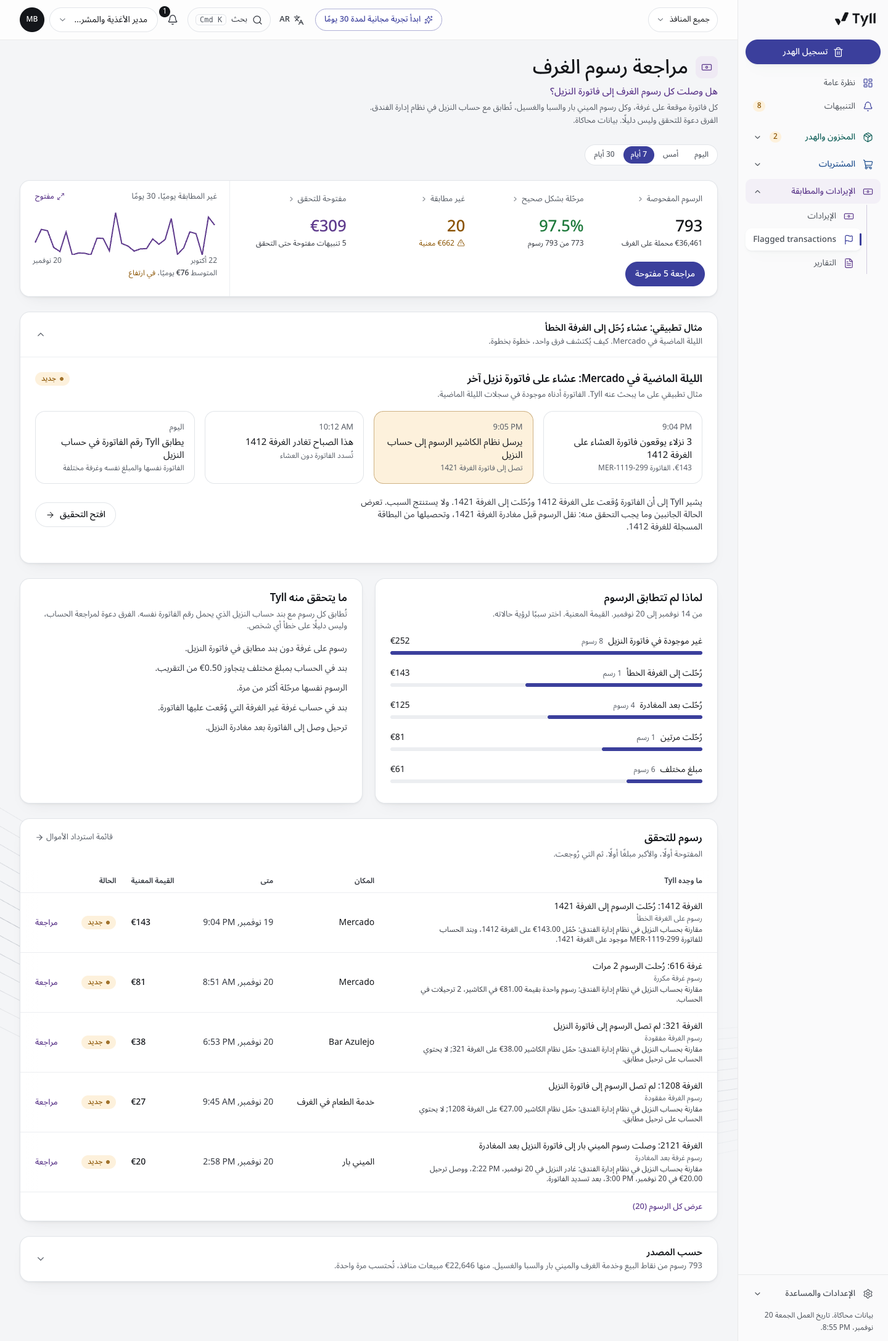
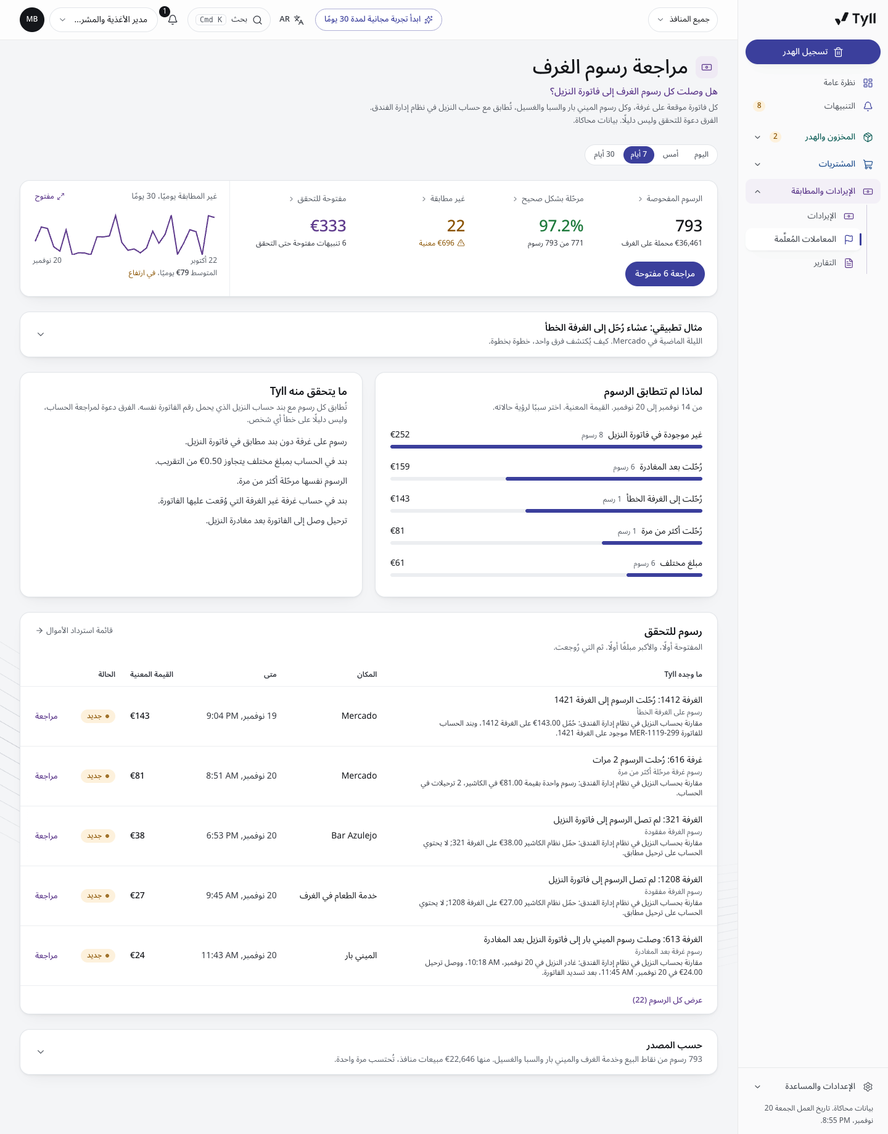
Feature 1: review fixes, room check and flags reconcile in the public demo
- demoCases keeps every room charge case of the last 30 days, open or
  closed, and the public demo room check reaches no further back, so each
  difference has its case and the counts and money agree by type
- one wording for duplicate postings: posted more than once
- minibar after check-out cases keep check-out between 7 AM and noon
- flags page lead and section title mention room charges
- room-damage note restored; sidebar labels translated, with a test
- tests for the public demo reconciliation, labels and check-out hours

diff --git a/src/lib/__tests__/room-charges.test.ts b/src/lib/__tests__/room-charges.test.ts
@@ -8,11 +8,11 @@ const dir = fs.mkdtempSync(path.join(os.tmpdir(), "tyll-rc-"));
 process.env.TYLL_AUTH_STORE = path.join(dir, "auth.json");
 process.env.TYLL_PURCHASING_STORE = path.join(dir, "purchasing.json");
 
-const { POLICY, ROOM_TYPES, classifyRoomCharge, detectExceptions, detectRoomChargeException } = await import("../domain/detect");
-const { roomChargesByDay, roomChargesBySource, summariseRoomCharges } = await import("../domain/room-charges");
+const { POLICY, ROOM_STATUS_TYPE, ROOM_TYPES, TYPE_LABEL, classifyRoomCharge, detectExceptions, detectRoomChargeException } = await import("../domain/detect");
+const { ROOM_STATUS_LABEL, roomChargesByDay, roomChargesBySource, summariseRoomCharges } = await import("../domain/room-charges");
 const { explain } = await import("../domain/explain");
 const { getDataset } = await import("../data/generate");
-const { demoCases } = await import("../data/demo-cases");
+const { demoCases, demoRoomCheckFrom } = await import("../data/demo-cases");
 const { ROOM_STORY, ROOM_STORY_CHARGE_ID, ROOM_STORY_EXCEPTION_ID, ROOM_STORY_ORDER_ID } = await import("../data/constants");
 const { roomCheckFor } = await import("../server/room-charges");
 const { snapshotFor } = await import("../server/snapshot");
@@ -20,7 +20,7 @@ const { userById } = await import("../data/catalog");
 const { can } = await import("../domain/access");
 const { activeItem } = await import("../nav");
 const { orderTotals } = await import("../domain/orders");
-const { DEMO_TODAY, addDays, eachDay, rel } = await import("../util");
+const { DATA_START, DEMO_TODAY, addDays, eachDay, rel } = await import("../util");
 type RoomCharge = import("../types").RoomCharge;
 
 const charge: RoomCharge = { id: "RC-T", propertyId: "lis", outletId: "lis-terrace", date: DEMO_TODAY, min: 20 * 60, room: "1412", source: "restaurant", description: "Mercado check T", orderId: "MER-T", expected: 120, posted: [120], postedMin: 20 * 60 + 1 };
@@ -57,6 +57,12 @@ describe("room charge rules", () => {
     expect(classifyRoomCharge({ ...charge, posted: [120, 120], folioRoom: "1421" })).toBe("wrong_room");
     expect(classifyRoomCharge({ ...charge, posted: [120, 120], checkoutMin: 19 * 60 })).toBe("after_checkout");
     expect(ROOM_TYPES).toEqual(expect.arrayContaining(["room_charge_wrong_room", "room_charge_after_checkout"]));
+  });
+
+  it("names a charge posted more than once the same way on the check and in the flags, whatever the number of postings", () => {
+    expect(ROOM_STATUS_LABEL.duplicate).toBe("Posted more than once");
+    expect(TYPE_LABEL[ROOM_STATUS_TYPE.duplicate]).toBe("Room charge posted more than once");
+    expect(classifyRoomCharge({ ...charge, posted: [120, 120, 120] })).toBe("duplicate");
   });
 });
 
@@ -118,6 +124,17 @@ describe("room charge data and totals", () => {
     for (const e of roomCases.filter((x) => d.seedInvestigations[x.id].status !== "closed")) expect(kept.has(e.id)).toBe(true);
   });
 
+  it("keeps minibar check-outs in normal hours: the guest leaves between 7 AM and noon, before the late posting", () => {
+    const late = d.roomCharges.filter((c) => c.source === "minibar" && classifyRoomCharge(c) === "after_checkout");
+    expect(late.length).toBeGreaterThan(0);
+    for (const c of late) {
+      expect(c.min).toBeLessThan(13 * 60);
+      expect(c.checkoutMin!).toBeGreaterThanOrEqual(7 * 60);
+      expect(c.checkoutMin!).toBeLessThanOrEqual(12 * 60);
+      expect(c.checkoutMin!).toBeLessThan(c.postedMin!);
+    }
+  });
+
   it("closes older differences as the night audit would, with the right note for each kind", () => {
     for (const e of roomCases.filter((x) => x.date < DEMO_TODAY && x.id !== ROOM_STORY_EXCEPTION_ID)) expect(d.seedInvestigations[e.id].status).toBe("closed");
     const moved = roomCases.find((e) => e.type === "room_charge_wrong_room" && d.seedInvestigations[e.id].outcome === "recovered");
@@ -127,6 +144,7 @@ describe("room charge data and totals", () => {
 
 describe("room charge check on the server", () => {
   const fnb = userById["u-fnb"];
+  const d0 = getDataset();
   const all = () => {
     const r = roomCheckFor(fnb, { from: addDays(DEMO_TODAY, -29), to: DEMO_TODAY });
     if (!r.ok) throw new Error(r.error);
@@ -169,6 +187,39 @@ describe("room charge check on the server", () => {
     if (!ird.ok) throw new Error(ird.error);
     expect(ird.bySource.map((x) => x.source)).toEqual(["room_service"]);
     expect(roomCheckFor(fnb, { from: DEMO_TODAY, to: addDays(DEMO_TODAY, -3) })).toMatchObject({ ok: false, status: 400 });
+  });
+
+  it("agrees with the flags in the public demo: every difference counted has its case, the same count and money by type", () => {
+    const was = process.env.TYLL_PUBLIC_DEMO;
+    process.env.TYLL_PUBLIC_DEMO = "on";
+    try {
+      const kept = demoCases(d0.exceptions, d0.seedInvestigations);
+      const keptIds = new Set(kept.map((e) => e.id));
+      for (const [from, to] of [[addDays(DEMO_TODAY, -29), DEMO_TODAY], [addDays(DEMO_TODAY, -6), DEMO_TODAY], [addDays(DEMO_TODAY, -1), addDays(DEMO_TODAY, -1)], [DEMO_TODAY, DEMO_TODAY]]) {
+        const r = roomCheckFor(fnb, { from, to });
+        if (!r.ok) throw new Error(r.error);
+        for (const row of r.rows) expect(keptIds.has(row.caseId)).toBe(true);
+        // "Flagged by type" on the flags page, for the room types, over the same period.
+        const flagged = kept.filter((e) => ROOM_TYPES.includes(e.type) && e.date >= from && e.date <= to);
+        for (const s of r.summary.byStatus.filter((x) => x.status !== "matched")) {
+          const ofType = flagged.filter((e) => e.type === ROOM_STATUS_TYPE[s.status as keyof typeof ROOM_STATUS_TYPE]);
+          expect(ofType).toHaveLength(s.n);
+          expect(ofType.reduce((t, e) => t + e.exposure, 0)).toBeCloseTo(s.value, 2);
+        }
+        expect(flagged).toHaveLength(r.summary.mismatched);
+      }
+      // The check reaches no further back than the cases the public demo keeps.
+      const far = roomCheckFor(fnb, { from: DATA_START, to: DEMO_TODAY });
+      expect(far.ok && far.from).toBe(demoRoomCheckFrom());
+      // Closed room cases have their own rule, so twelve other closed cases per hotel stay too.
+      expect(kept.filter((e) => !ROOM_TYPES.includes(e.type) && d0.seedInvestigations[e.id].status === "closed").length).toBe(12);
+    } finally {
+      if (was === undefined) delete process.env.TYLL_PUBLIC_DEMO;
+      else process.env.TYLL_PUBLIC_DEMO = was;
+    }
+    // Outside the public demo the check still reaches back to the start of the data.
+    const full = roomCheckFor(fnb, { from: DATA_START, to: DEMO_TODAY });
+    expect(full.ok && full.from).toBe(DATA_START);
   });
 
   it("is reached from Flagged transactions in the sidebar", () => {

diff --git a/src/lib/data/demo-cases.ts b/src/lib/data/demo-cases.ts
@@ -1,28 +1,41 @@
 // The public demo shows a short, believable list of flags. The full set stays in the dataset and in every other mode.
 import { HERO_EXCEPTION_ID, ROOM_STORY_EXCEPTION_ID } from "./constants";
 import type { Exception, InvestigationState } from "../types";
+import { DEMO_TODAY, addDays } from "../util";
 
 const OPEN_OTHERS_PER_HOTEL = 3;
 const OPEN_MAX_PER_HOTEL = 12;
 const CLOSED_PER_HOTEL = 12;
 
 /**
- * The worked examples, every open room charge difference (the room charge check lists each one, so each needs its case),
- * then up to three of the largest other open cases while the hotel stays within twelve open, and the most recent closed
- * cases for each hotel.
+ * The first day of the room charge check in the public demo: the last 30 days, the longest period the check offers (a
+ * custom range cannot start earlier). Every room charge case from this day on is kept, open or closed, so each difference
+ * the check counts has its case, and the check and the flags add up to the same figures.
+ */
+export const demoRoomCheckFrom = () => addDays(DEMO_TODAY, -29);
+
+const isRoom = (e: Exception) => e.type.startsWith("room_charge");
+
+/**
+ * The worked examples, every room charge case in the last 30 days (the room charge check lists each one, so each needs
+ * its case), then up to three of the largest other open cases while the hotel stays within twelve open, and the twelve
+ * most recent other closed cases for each hotel.
  */
 export function demoCases(exceptions: readonly Exception[], seed: Record<string, InvestigationState>): Exception[] {
   const keep = new Set<string>();
+  const roomFrom = demoRoomCheckFrom();
   const open = exceptions.filter((e) => seed[e.id]?.status !== "closed");
-  for (const e of open) if (e.id === HERO_EXCEPTION_ID || e.id === ROOM_STORY_EXCEPTION_ID || e.type === "usage_variance" || e.type.startsWith("room_charge")) keep.add(e.id);
+  for (const e of open) if (e.id === HERO_EXCEPTION_ID || e.id === ROOM_STORY_EXCEPTION_ID || e.type === "usage_variance" || isRoom(e)) keep.add(e.id);
+  for (const e of exceptions) if (isRoom(e) && e.date >= roomFrom) keep.add(e.id);
   const others = new Map<string, Exception[]>();
   for (const e of open) if (!keep.has(e.id)) others.set(e.propertyId, [...(others.get(e.propertyId) ?? []), e]);
   for (const [propertyId, list] of others) {
     const room = OPEN_MAX_PER_HOTEL - open.filter((e) => e.propertyId === propertyId && keep.has(e.id)).length;
     for (const e of [...list].sort((a, b) => b.exposure - a.exposure).slice(0, Math.max(0, Math.min(OPEN_OTHERS_PER_HOTEL, room)))) keep.add(e.id);
   }
+  // Closed room charge cases follow their own rule above, so they do not crowd the other kinds out of the closed list.
   const closed = new Map<string, Exception[]>();
-  for (const e of exceptions) if (seed[e.id]?.status === "closed") closed.set(e.propertyId, [...(closed.get(e.propertyId) ?? []), e]);
+  for (const e of exceptions) if (seed[e.id]?.status === "closed" && !isRoom(e)) closed.set(e.propertyId, [...(closed.get(e.propertyId) ?? []), e]);
   for (const list of closed.values()) for (const e of [...list].sort((a, b) => b.date.localeCompare(a.date)).slice(0, CLOSED_PER_HOTEL)) keep.add(e.id);
   return exceptions.filter((e) => keep.has(e.id));
 }

diff --git a/src/app/money/page.tsx b/src/app/money/page.tsx
@@ -100,7 +100,7 @@ export default function MoneyPage() {
 
   return (
     <div className="space-y-6">
-      <PageHeader title={tab === "outlets" ? "Outlet performance" : onFlags ? "Flagged transactions" : "Revenue"} question={onFlags ? "Where is money going missing?" : tab === "outlets" ? "Which outlets are doing better or worse?" : "How much did we make?"} lead={onFlags ? "Voids, refunds, discounts and items removed from bills that broke a rule. A flag is a prompt to check, not a finding. Simulated data." : "Last 7 days against the 7 before. Profit is an estimate. Simulated data."} />
+      <PageHeader title={tab === "outlets" ? "Outlet performance" : onFlags ? "Flagged transactions" : "Revenue"} question={onFlags ? "Where is money going missing?" : tab === "outlets" ? "Which outlets are doing better or worse?" : "How much did we make?"} lead={onFlags ? "Voids, refunds, discounts, items removed from bills and room charges that broke a rule. A flag is a prompt to check, not a finding. Simulated data." : "Last 7 days against the 7 before. Profit is an estimate. Simulated data."} />
       {onFlags ? (
         <SummaryBar
           items={[
@@ -136,7 +136,7 @@ export default function MoneyPage() {
       )}
       {onFlags ? (
         <>
-          <Section id="revenue.flagged" forceOpen={tab === "mistakes"} title="Voids, refunds and removed items" summary={`${flags.length} flagged transactions, ${money(flagValue)} at risk`}>
+          <Section id="revenue.flagged" forceOpen={tab === "mistakes"} title="Voids, refunds, removed items and room charges" summary={`${flags.length} flagged transactions, ${money(flagValue)} at risk`}>
             <Mistakes />
           </Section>
           <SectionLink href="/money?tab=cash" title="Cash on hand against cash sales" summary="Each outlet's drawer at the end of the shift against the bills paid in cash. Card payments are reconciled by the payment provider." />
@@ -228,7 +228,7 @@ function Mistakes() {
             <li>Complimentary items above {POLICY.compMaxValue} per order, or with no reason.</li>
             <li>Refunds above {Math.round(POLICY.refundMaxShare * 100)}% of a bill, late, or unexplained.</li>
             <li>Whole orders cancelled after they were sent to the kitchen or bar.</li>
-            <li>Room charges missing from the guest bill, posted twice, for a different amount, to the wrong room or after check-out.</li>
+            <li>Room charges missing from the guest bill, posted more than once, for a different amount, to the wrong room or after check-out.</li>
           </ul>
         </Panel>
       </div>

diff --git a/src/lib/server/room-charges.ts b/src/lib/server/room-charges.ts
@@ -3,6 +3,7 @@
 // "roomcharge.view" receive them, and only for the outlets and hotels they hold. Each difference is also a flag, raised by
 // the same rule (detectRoomChargeException), so the check and the flags list always agree.
 import { ROOM_STORY_CHARGE_ID, ROOM_STORY_EXCEPTION_ID } from "../data/constants";
+import { demoRoomCheckFrom } from "../data/demo-cases";
 import { outletById } from "../data/catalog";
 import { getDataset } from "../data/generate";
 import { allowedOutlets, can, hasWholeProperty } from "../domain/access";
@@ -11,6 +12,7 @@ import { roomChargesByDay, roomChargesBySource, summariseRoomCharges, type RoomC
 import { SOURCE_LABEL } from "../labels";
 import type { ChargeSource, InvestigationStatus, RoomCharge, User } from "../types";
 import { DATA_START, DEMO_TODAY, addDays, eachDay, round2 } from "../util";
+import { publicDemo } from "./auth";
 
 type Fail = { ok: false; status: number; error: string };
 const fail = (status: number, error: string): Fail => ({ ok: false, status, error });
@@ -88,7 +90,11 @@ function toRow(c: RoomCharge): RoomCheckRow | null {
 export function roomCheckFor(user: User, q: { from?: string | null; to?: string | null; outlets?: string | null; whole?: string | null }): RoomCheck | Fail {
   if (!can(user, "roomcharge.view")) return fail(403, "Your role cannot see room charges.");
   const to = q.to && ISO.test(q.to) ? (q.to > DEMO_TODAY ? DEMO_TODAY : q.to) : DEMO_TODAY;
-  const from = q.from && ISO.test(q.from) ? (q.from < DATA_START ? DATA_START : q.from) : addDays(to, -29);
+  // The public demo keeps the room charge cases of the last 30 days (demoCases), so the check reaches no further back:
+  // every difference it counts then has its case on the flags page and the Money Back List.
+  const earliest = publicDemo() ? demoRoomCheckFrom() : DATA_START;
+  const asked = q.from && ISO.test(q.from) ? q.from : addDays(to, -29);
+  const from = asked < earliest ? earliest : asked;
   if (from > to) return fail(400, "The period starts after it ends.");
   const mine = allowedOutlets(user);
   const outlets = new Set((list(q.outlets) ?? mine).filter((id) => mine.includes(id)));

diff --git a/src/components/money/room-charges.tsx b/src/components/money/room-charges.tsx
@@ -170,7 +170,7 @@ export function RoomChargeCheck() {
           {data.bySource.length === 0 ? <div className="p-6"><EmptyState title="No room charges in this selection">Minibar, spa and laundry charges belong to the whole hotel. Choose all outlets to see them.</EmptyState></div> : (
             <TableWrap>
               <table className="w-full min-w-[900px] text-sm">
-                <thead><tr><Th>Source</Th><Th align="right">Charges</Th><Th align="right">Charged</Th><Th align="right">Posted</Th><Th align="right">Posted correctly</Th><Th align="right">Missing</Th><Th align="right">Different amount</Th><Th align="right">Posted twice</Th><Th align="right">Wrong room</Th><Th align="right">After check-out</Th></tr></thead>
+                <thead><tr><Th>Source</Th><Th align="right">Charges</Th><Th align="right">Charged</Th><Th align="right">Posted</Th><Th align="right">Posted correctly</Th><Th align="right">Missing</Th><Th align="right">Different amount</Th><Th align="right">Posted more than once</Th><Th align="right">Wrong room</Th><Th align="right">After check-out</Th></tr></thead>
                 <tbody>
                   {data.bySource.map((r) => (
                     <tr key={r.source} className={rowClass}>
@@ -188,7 +188,7 @@ export function RoomChargeCheck() {
           )}
           <div className="space-y-2 px-6 py-4">
             <Note className="max-w-[95ch]">Revenue is counted once. Restaurant and room service charges are already inside outlet sales; posting them to a room moves them to the guest bill, and settling the bill at check-out clears it. Neither step adds revenue.</Note>
-            <Note className="max-w-[95ch]">Guest folios, room numbers and check-out times are simulated, as is the PMS they come from. Minibar, spa and laundry postings cover the last 21 days.</Note>
+            <Note className="max-w-[95ch]">Guest folios, room numbers and check-out times are simulated, as is the PMS they come from. Minibar, spa and laundry postings cover the last 21 days. Room-damage charge verification is planned and not part of this demo.</Note>
           </div>
         </Section>
       </div>

diff --git a/src/lib/data/generate.ts b/src/lib/data/generate.ts
@@ -283,9 +283,11 @@ function withFolio(c: RoomCharge): RoomCharge {
   if (!clean) return { ...c, postedMin, checkoutMin };
   // A room number keyed by hand at an outlet till, one key off.
   if (c.source === "restaurant" && r.chance(0.0025)) return { ...c, postedMin, checkoutMin, folioRoom: neighbourRoom(c.room, r) };
-  if (c.source === "minibar" && r.chance(0.03)) {
-    // Housekeeping found the minibar used when servicing a departure room, after the guest had gone.
-    checkoutMin = Math.max(6 * 60, c.min - r.int(15, 150));
+  if (c.source === "minibar" && c.min < 13 * 60 && r.chance(0.07)) {
+    // Housekeeping found the minibar used when servicing a departure room, after the guest had gone. Rooms are serviced
+    // late morning, and guests leave between 7 AM and noon, so only charges recorded before 1 PM can arrive this way.
+    // Charges start at 8 AM, so check-out is always at least 15 minutes before the posting.
+    checkoutMin = Math.min(12 * 60, Math.max(7 * 60, c.min - r.int(15, 150)));
   } else if ((c.source === "restaurant" || c.source === "room_service") && c.min < 11 * 60 && r.chance(0.006)) {
     // A breakfast posting held in the interface queue while the guest checked out.
     postedMin = c.min + r.int(75, 200);

diff --git a/src/lib/__tests__/translate.test.ts b/src/lib/__tests__/translate.test.ts
@@ -1,5 +1,7 @@
 import { describe, expect, it } from "vitest";
 import { Translator, type Messages } from "../i18n/translate";
+import real from "../i18n/messages.json";
+import { ALL_ITEMS, SECTIONS } from "../nav";
 
 const messages: Messages = {
   Stock: ["Bestand", "Scorte", "المخزون"],
@@ -38,5 +40,13 @@ describe("translation", () => {
     const de = t("de");
     expect(de.translate("Nothing like this 4")).toBe("Nothing like this 4");
     expect([...de.missing]).toEqual(["Nothing like this {}"]);
+  });
+  it("has every sidebar label, short label and section title in every language", () => {
+    const words = [...SECTIONS.map((x) => x.title), ...ALL_ITEMS.flatMap((i) => [i.label, i.short ?? i.label])];
+    for (const lang of ["de", "it", "ar"] as const) {
+      const tr = new Translator(lang, real as unknown as Messages, { items: [], names: [] });
+      for (const w of words) tr.translate(w);
+      expect([...tr.missing], lang).toEqual([]);
+    }
   });
 });

diff --git a/src/lib/domain/detect.ts b/src/lib/domain/detect.ts
@@ -26,7 +26,7 @@ export const TYPE_LABEL: Record<ExceptionType, string> = {
   unusual_refund: "Unusual refund",
   unexplained_void: "Unexplained void",
   room_charge_missing: "Room charge missing",
-  room_charge_duplicate: "Room charge duplicated",
+  room_charge_duplicate: "Room charge posted more than once",
   room_charge_incorrect: "Room charge amount differs",
   room_charge_wrong_room: "Room charge on the wrong room",
   room_charge_after_checkout: "Room charge after check-out",

diff --git a/src/lib/domain/room-charges.ts b/src/lib/domain/room-charges.ts
@@ -12,7 +12,7 @@ export const ROOM_STATUS_LABEL: Record<RoomChargeStatus, string> = {
   matched: "Posted correctly",
   missing: "Missing from the guest bill",
   wrong_amount: "Different amount",
-  duplicate: "Posted twice",
+  duplicate: "Posted more than once",
   wrong_room: "Posted to the wrong room",
   after_checkout: "Posted after check-out",
 };

diff --git a/OVERNIGHT_LOG.md b/OVERNIGHT_LOG.md
@@ -87,7 +87,7 @@ Branch `feature/overnight-checks`, started from `feature/visit-tracking` (1fdbe6
 | # | Feature | Status | Notes |
 |---|---|---|---|
 | 0 | Learn the demo | done | Summary above, under "What the demo is made of" |
-| 1 | Room charge check | DONE | `/money?tab=rooms` (F&B Director u-fnb, also gm, fc, owner, restaurant manager for own outlets; worked example opens with `&open=example`). Story: last night's Mercado dinner for 3, signed to room 1412, posted to room 1421; 1412 checked out this morning. Case `EX-RC-MER-<yesterday MMDD>-299`. Screenshots `overnight-screenshots/01-room-charges-*.png`. |
+| 1 | Room charge check | DONE | `/money?tab=rooms` (F&B Director u-fnb, also gm, fc, owner, restaurant manager for own outlets; worked example opens with `&open=example`). Story: last night's Mercado dinner for 3, signed to room 1412, posted to room 1421; 1412 checked out this morning. Case `EX-RC-MER-<yesterday MMDD>-299`. Screenshots `overnight-screenshots/01-room-charges-*.png`. Review fixes done: the check and the flags now reconcile in the public demo too (see "Review fixes" below). |
 | 2 | Bought against sold, per item | to do | |
 | 3 | Drinks per guest by waiter | to do | |
 | 4 | Empty bottle scan | to do | |
@@ -119,6 +119,17 @@ Branch `feature/overnight-checks`, started from `feature/visit-tracking` (1fdbe6
 
 **Checks:** tsc clean; eslint 0 errors (2 known warnings); vitest 26 files, 270 tests passed (14 new in `src/lib/__tests__/room-charges.test.ts`: rules and must not flag cases, order of checks, reconciliation of check against flags and by day and by source, story, demo keep rule, night audit seeds, server permission and scope, outlet selector, sidebar); build passed on the second run as expected.
 
-**Known, not part of this feature:** several older screens still have English text in Arabic (sidebar "Flagged transactions", "Predict", the case page's "Manage this case" panel, the cash page). The flags page lead still says "Voids, refunds, discounts and items removed from bills"; it could mention room charges.
+**Known, not part of this feature:** several older screens still have English text in Arabic (the case page's "Manage this case" panel, the cash page).
+
+**Review fixes (feature 1):**
+- *Totals did not reconcile in the public demo (medium).* Confirmed: the check counted every difference in the dataset, while `demoCases` kept only open room cases plus the 12 newest closed cases of all kinds, so on 20 Nov the check showed 20 differences for 7 days and the flags page 14. Fixed with option (a): `demoCases` now keeps every room charge case dated in the last 30 days, open or closed (`demoRoomCheckFrom()`), and in the public demo `roomCheckFor` reaches no further back than that day (the period toggle offers at most 30 days and a custom range cannot start earlier than DATA_START + 31, so nothing a visitor can choose is cut). The twelve newest closed cases per hotel now count only the other kinds, so room cases no longer crowd them out. Chose (a) over (b) because (b) would have emptied the older days of the 30 day chart and made the differences look like a recent rise. On 20 Nov, public demo: 7 days, 22 differences, EUR 696 on both pages; 30 days, 76 differences, EUR 2,373 on both, matching type by type (Missing 24 for EUR 904, After check-out 23 for EUR 589, More than once 7 for EUR 492, Wrong room 3 for EUR 225, Different amount 19 for EUR 163). Open flags are unchanged (12, EUR 534). New test: the room check against `demoCases` output in public demo mode, for 30 days, 7 days, yesterday and today, count and money per type, every listed row has its case, and the clamp.
+- *Rows with no action (low).* Fixed by the first fix: all 76 rows over 30 days now end in Review or View (checked in the browser).
+- *Flags page lead and section title (low).* Now "Voids, refunds, discounts, items removed from bills and room charges that broke a rule..." and "Voids, refunds, removed items and room charges", translated (the old lead had no translation either).
+- *Minibar check-out times (low).* The after check-out minibar case now applies only to charges recorded before 1 PM (chance raised from 3% to 7% to keep about the same number), and check-out is clamped to 7 AM to noon, always at least 15 minutes before the posting. Today's example: check-out 10:18 AM, posted 11:45 AM. Test added.
+- *Two names for the same rule (low).* One wording now: "Posted more than once" on the check and the By source table, "Room charge posted more than once" in the flags (TYPE_LABEL), and "posted more than once" in What Tyll checks. Three or more postings are covered by the same words. Test added.
+- *Sidebar text in Arabic (low).* Added "Flagged transactions" and "Predict", and also "Expiry", "Auto order" and "Other tools", which a new test found missing: every sidebar label, short label and section title must have an entry in German, Italian and Arabic.
+- *Removed content (low).* The note "Room-damage charge verification is planned and not part of this demo." is back, at the end of the simulated data note in the By source section (translated). The Reports link to room charges stays removed: CLAUDE.md says Reports lists only records with no sidebar item and never repeats a sidebar item, and `/money?tab=rooms` is now part of the Flagged transactions item (its `also` list), so a Reports link would repeat it. CLAUDE.md still names room charges among the Reports records; that line is now out of date.
+- *Checks after the review fixes:* tsc clean; eslint 0 errors (2 known warnings); vitest 26 files, 274 passed (4 new); build passed on the second run as expected; preview server restarted; screenshots re-taken (desktop, phone, Arabic, flags, plus `01-room-charges-flags-open-desktop.png` with the flags section open) and looked at.
+- *Side effect to weigh in the final polish pass:* in the public demo the flags page now holds every room charge case of the last 30 days but only 12 closed cases of the other kinds, so over 30 days the five largest types are all room charges (in the full dataset other kinds outnumber room charges about two to one). Over 7 days, the default, three of the five largest are room charges. Keeping more closed cases of the other kinds in the public demo would restore the balance; left as is, because it changes the existing trim rule beyond this feature.
 
 **Next:** feature 2, Bought against sold, per item.
